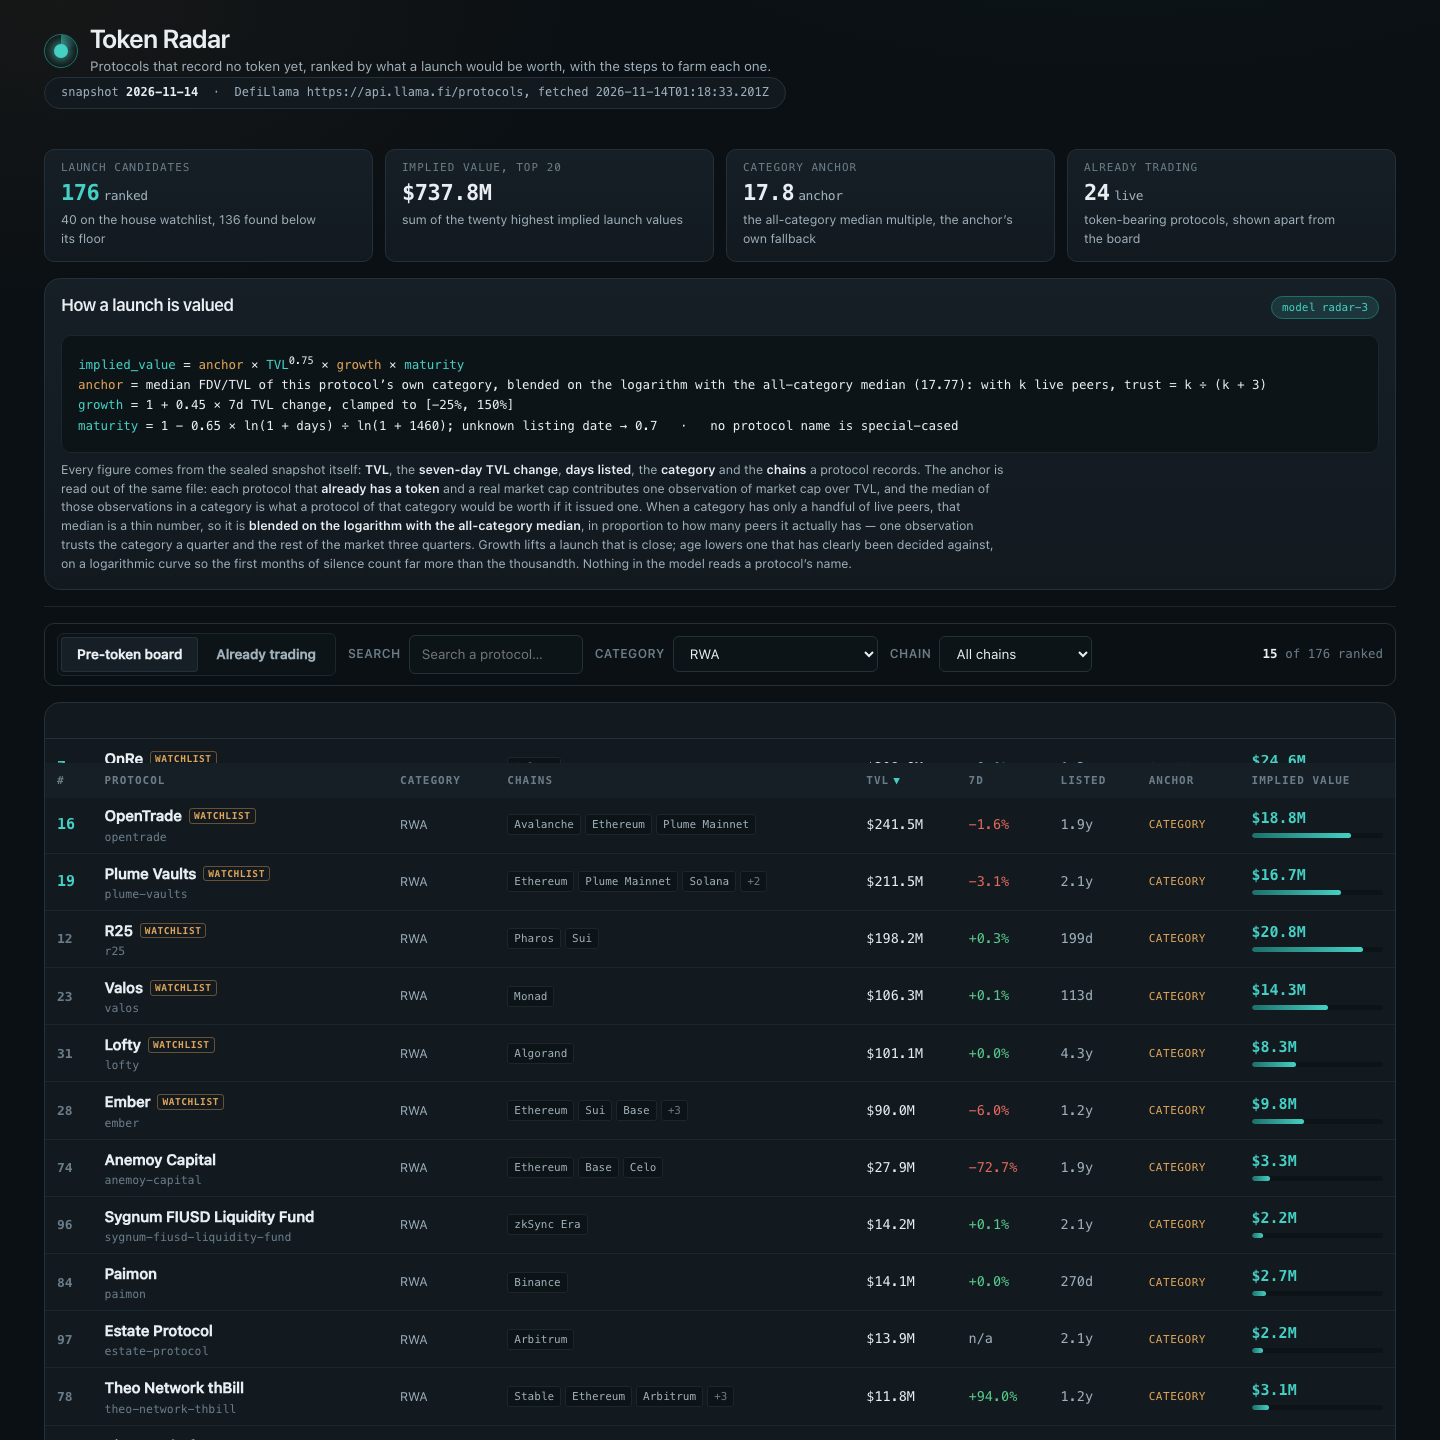
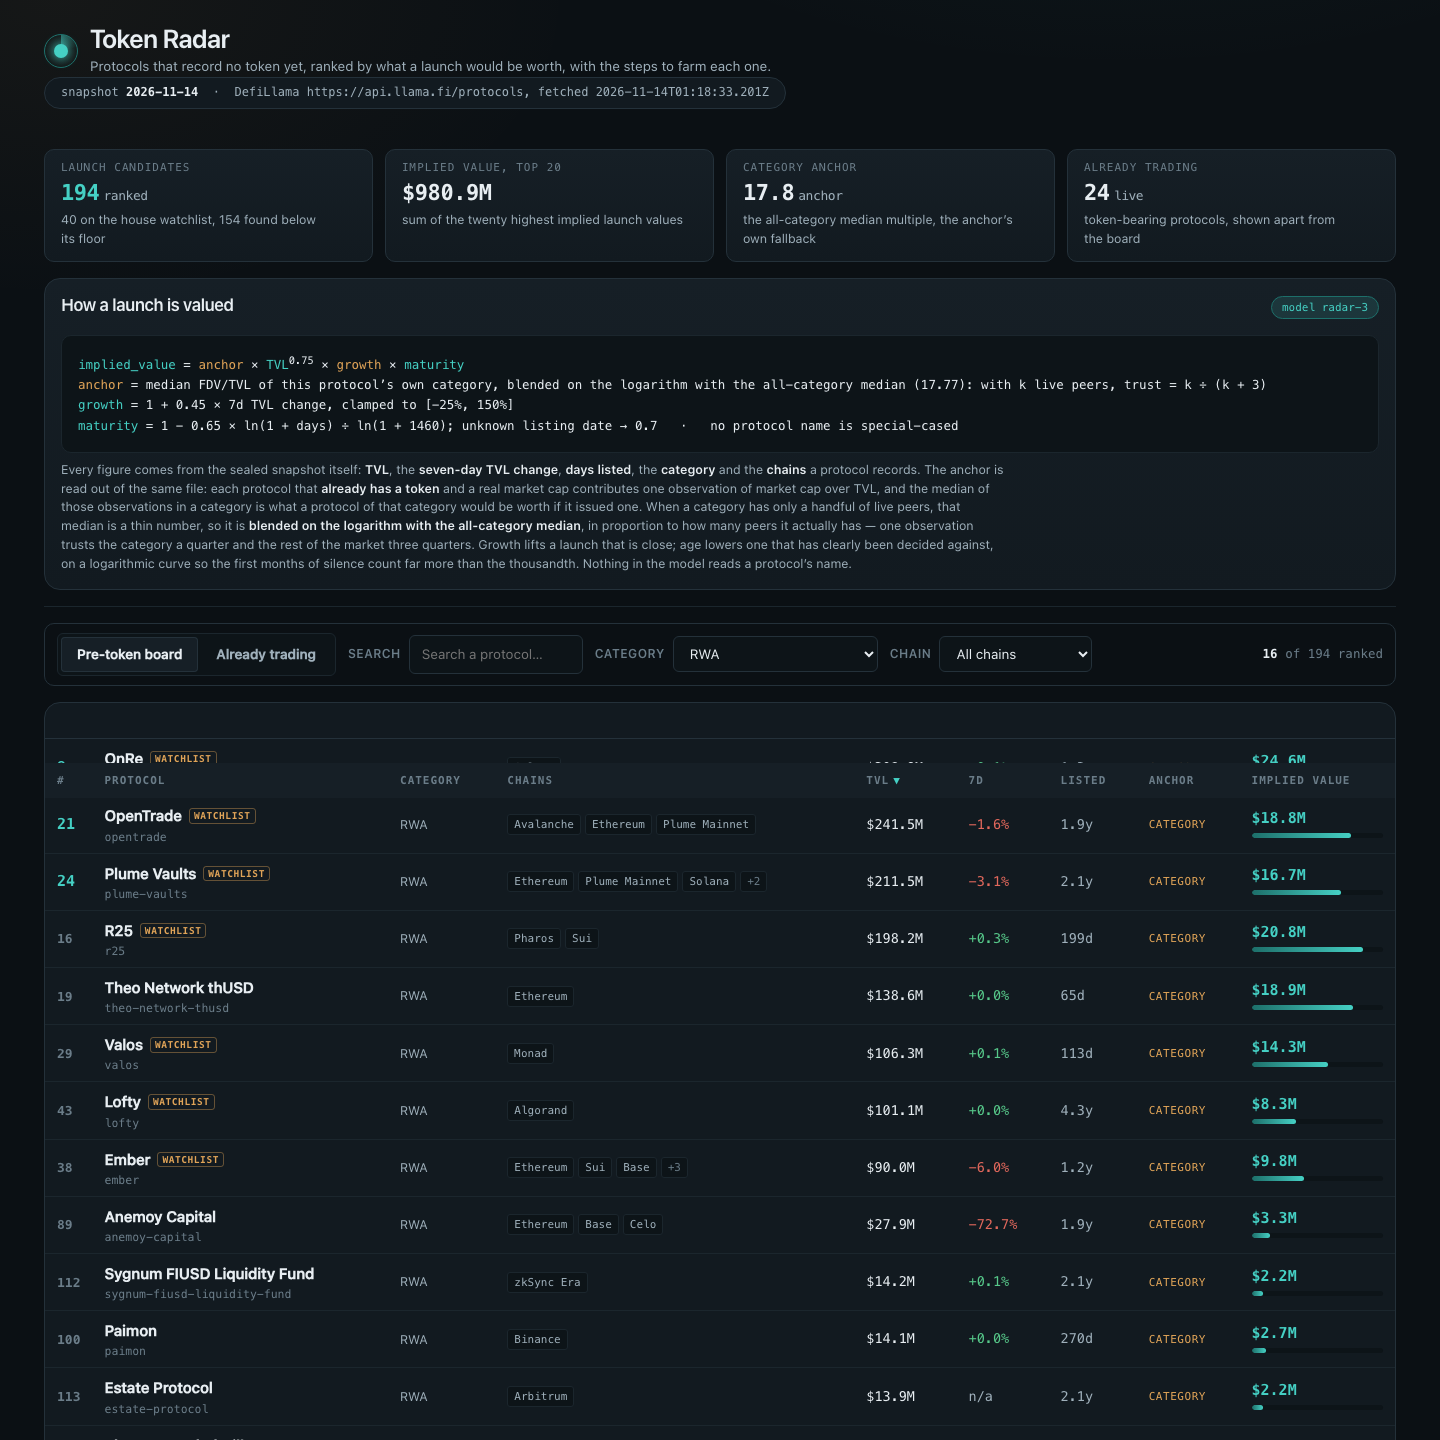
Style the noscript block and refresh the frames

diff --git a/dashboard/index.html b/dashboard/index.html
@@ -3,13 +3,19 @@
 <head>
 <meta charset="utf-8">
 <meta name="viewport" content="width=device-width, initial-scale=1">
-<title>Token Radar — a pre-token protocol launch board, ranked by implied post-launch value</title>
-<meta name="description" content="Static dashboard for the token-radar-01 make.fun bounty. It ranks protocols that have no token yet by how much they are worth after launch, using a fully stated arithmetic model, and gives each one executable air-farm steps. Data comes from a sealed DefiLlama snapshot via the local data.js; no network requests, no external resources.">
+<meta name="color-scheme" content="dark">
+<title>Token Radar — pre-token protocols ranked by implied post-launch value</title>
+<meta name="description" content="Token Radar ranks the protocols in a sealed DefiLlama snapshot that record no token yet by what a launch would be worth, and gives each one a step-by-step airdrop-farming plan. Every figure comes from the snapshot; the page recomputes the model's arithmetic so any number can be checked against the inputs it came from.">
 <link rel="stylesheet" href="app.css">
 </head>
 <body>
 <a class="skip" href="#board">Skip to the board</a>
 <main id="board" tabindex="-1" aria-busy="true"></main>
+<noscript>
+  <p class="noscript">This board draws itself from <code>data.js</code>, the file beside it, so with JavaScript
+  turned off there is nothing to render. The data is all still there: <code>board.json</code> holds every row
+  the model scored, and <code>data.js</code> holds the same rows in the shape the page reads.</p>
+</noscript>
 <script src="../data.js"></script>
 <script src="app.js"></script>
 </body>

diff --git a/dashboard/app.css b/dashboard/app.css
@@ -271,6 +271,15 @@ tbody tr:nth-child(-n+3) .rank { color: var(--accent); font-size: 15px; }
 
 .empty { padding: var(--s8); text-align: center; color: var(--ink-faint); }
 
+/* The board draws itself from data.js, so with scripting off there is nothing to render. The
+   noscript block says so, and says where the same rows are in plain files. */
+.noscript {
+  max-width: 70ch; margin: var(--s7) auto; padding: var(--s5);
+  border: 1px solid var(--line); border-radius: var(--radius-l);
+  background: var(--bg-raise); color: var(--ink-dim); font-size: 14px; line-height: 1.6;
+}
+.noscript code { font-family: var(--font-num); color: var(--ink); }
+
 /* ---- footer ---- */
 footer {
   margin-top: var(--s7); padding-top: var(--s4); border-top: 1px solid var(--line-soft);
